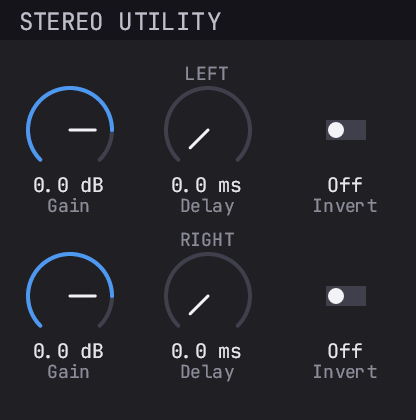
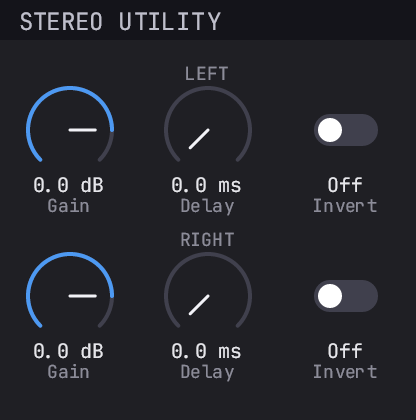
built-in gui: prettier toggles, theme-driven hover and knob colours

Changed region(s): [[0.75, 0.2476, 0.9062, 0.3714], [0.75, 0.65, 0.9062, 0.7429]]

diff --git a/crates/truce-gui-types/src/widgets.rs b/crates/truce-gui-types/src/widgets.rs
@@ -210,6 +210,16 @@ pub fn draw_slider(
     );
 }
 
+/// Fill a horizontal capsule (rounded pill) centered vertically on `cy`.
+/// The backend has no rounded-rect primitive, so the shape is a middle
+/// rect plus a circular end-cap at each end.
+fn fill_capsule(ctx: &mut dyn RenderBackend, x: f32, cy: f32, w: f32, h: f32, color: Color) {
+    let r = h / 2.0;
+    ctx.fill_rect(x + r, cy - r, (w - 2.0 * r).max(0.0), h, color);
+    ctx.fill_circle(x + r, cy, r, color);
+    ctx.fill_circle(x + w - r, cy, r, color);
+}
+
 /// Draw a toggle button (on/off).
 ///
 /// `value` > 0.5 = on, <= 0.5 = off.
@@ -229,37 +239,30 @@ pub fn draw_toggle(
     let cx = x + width / 2.0;
     let cy = y + height / 2.0 - 5.0;
 
-    // Toggle track (pill shape)
-    let track_w = 20.0;
-    let track_h = 10.0;
+    // Rounded switch track, matching the egui `param_toggle` look.
+    let track_w = 32.0;
+    let track_h = 16.0;
     let track_x = cx - track_w / 2.0;
-    let track_y = cy - track_h / 2.0;
+    // On / off track colors already equal the egui `param_toggle`'s
+    // (`knob_fill` == PRIMARY, `knob_track` == KNOB_TRACK). Hovering an off
+    // switch lightens the track the way egui's `hovered.bg_fill` does,
+    // rather than drawing a separate halo.
     let bg = if is_on {
         theme.knob_fill
+    } else if highlighted {
+        theme.toggle_track_hover
     } else {
         theme.knob_track
     };
-    ctx.fill_rect(track_x, track_y, track_w, track_h, bg);
+    fill_capsule(ctx, track_x, cy, track_w, track_h, bg);
 
-    // Thumb circle
+    // Switch knob, seated inside the track at the on/off end.
     let thumb_x = if is_on {
         track_x + track_w - track_h / 2.0
     } else {
         track_x + track_h / 2.0
     };
-    ctx.fill_circle(thumb_x, cy, track_h / 2.0 - 1.0, theme.knob_pointer);
-
-    if highlighted {
-        ctx.fill_rect(
-            track_x - 1.0,
-            track_y - 1.0,
-            track_w + 2.0,
-            track_h + 2.0,
-            theme.accent,
-        );
-        ctx.fill_rect(track_x, track_y, track_w, track_h, bg);
-        ctx.fill_circle(thumb_x, cy, track_h / 2.0 - 1.0, theme.knob_pointer);
-    }
+    ctx.fill_circle(thumb_x, cy, track_h / 2.0 - 2.0, theme.toggle_thumb);
 
     // Value text
     let val_size = 10.0;

diff --git a/crates/truce-gui-types/src/theme.rs b/crates/truce-gui-types/src/theme.rs
@@ -39,6 +39,11 @@ pub struct Theme {
     pub knob_pointer: Color,
     pub header_bg: Color,
     pub header_text: Color,
+    /// Track of an *off* toggle while hovered (`knob_track` when idle,
+    /// `knob_fill` when on).
+    pub toggle_track_hover: Color,
+    /// A toggle's sliding knob.
+    pub toggle_thumb: Color,
 }
 
 impl Theme {
@@ -56,6 +61,8 @@ impl Theme {
             knob_pointer: Color::rgb(0.95, 0.95, 0.97),
             header_bg: Color::rgb(0.08, 0.08, 0.10),
             header_text: Color::rgb(0.75, 0.75, 0.80),
+            toggle_track_hover: Color::rgb(0.30, 0.30, 0.36),
+            toggle_thumb: Color::rgb(1.0, 1.0, 1.0),
         }
     }
 }

diff --git a/CHANGELOG.md b/CHANGELOG.md
@@ -17,6 +17,7 @@ This release updates the GUI stack and raises the minimum Rust version: `truce-e
 - **`Editor::idle` gained a `dt` parameter.** `fn idle(&mut self)` is now `fn idle(&mut self, dt: std::time::Duration)` — `dt` is the wall-clock time since the previous call, so animation can be driven frame-rate-independently across hosts that tick at different rates. A custom `Editor` that overrides `idle` no longer compiles. **Migration:** add the parameter (`fn idle(&mut self, _dt: std::time::Duration)` if you don't use it). A plug-in on a built-in editor is unaffected.
 - **`truce-egui` editors receive a key only when they claim it or a text field is focused.** So a DAW's shortcuts keep working while a plug-in window is focused, an unclaimed key now returns to the host instead of reaching the editor — a plug-in that reads keys directly (custom shortcuts, Tab / Enter navigation) stops seeing them until it opts in. **Migration:** call `truce_egui::claim_keys(ui.ctx(), &[…])` each frame with the keys you handle (or `egui::Key::ALL` for all of them, as `gui-zoo-egui` now does). A focused text field still keeps every key; an unclaimed Cmd / Ctrl / Alt chord routes to the host, and you can claim specific chords with `truce_egui::claim_shortcuts(ui.ctx(), &[egui::KeyboardShortcut::new(…)])`.
 - **`truce-iced` editors return keys no widget consumed to the host.** In 6.x the iced editor kept every key; now an unconsumed key also goes to the host so DAW shortcuts keep working. A key handled in `subscription()` (`keyboard::listen`, `event::listen_with`) counts as unconsumed, so without a claim both the plug-in and the host act on it. **Migration:** implement `IcedPlugin::keeps_key` and return `true` for the keys you handle (`gui-zoo-iced` keeps all of them). A focused `text_input` still keeps its keys.
+- **`Theme` gained `toggle_track_hover` and `toggle_thumb`.** A custom built-in-GUI theme written as a full `Theme { … }` literal no longer compiles. **Migration:** set the two fields, or fill the rest from `..Theme::dark()`.
 - **`EventList::with_capacity` lists are now capped at their capacity.** They used to grow on demand; now a full list drops non-parameter events, and `push_sysex` returns the new `PushError::QueueFull`. Code that builds its own list with a small capacity (tests, a custom host) and pushes more than that loses the overflow. `PushError` is matched exhaustively, so a `match` on it needs the new arm. **Migration:** size the list for the block (`block_event_capacity(max_block, param_count)`), or use `EventList::growable_with_capacity` outside the audio thread.
 
 ### Migrating from 6.x
@@ -76,7 +77,7 @@ This release updates the GUI stack and raises the minimum Rust version: `truce-e
 - `truce-egui`: recovers from a failed surface acquire instead of staying black, fixing a freeze and a GPU / host memory leak (#248). A frame dropped unrendered at shutdown or during a render panic no longer trips egui's texture-delta assert, which could abort the host in debug builds.
 - `truce-egui`: bundles Noto Music (`truce_font::NOTO_MUSIC`, SIL OFL 1.1) as a symbol fallback, so glyphs like `♩` render instead of tofu now that egui 0.37 makes its own symbol fonts opt-in.
 - `truce-slint`: fixed window content bleeding through open popups by repainting the full frame in software (#241). A `.slint` UI that renders images or SVGs opts into decoding per plug-in via `i-slint-core` (see the slint migration note).
-- Built-in GUI: restyled toggle widget, picked up on rebuild with no code change.
+- Built-in GUI: restyled toggle widget, picked up on rebuild with no code change. Its hover track and knob colours come from the new `Theme::toggle_track_hover` / `Theme::toggle_thumb`.
 
 #### Parameters
 
